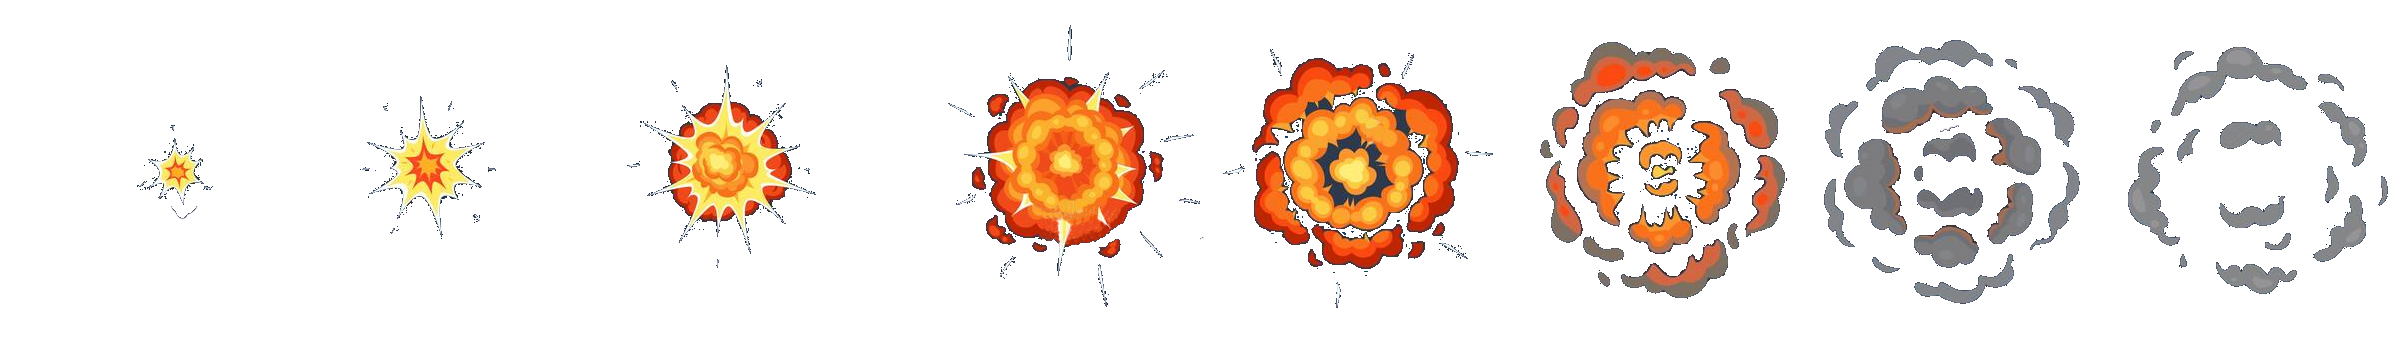
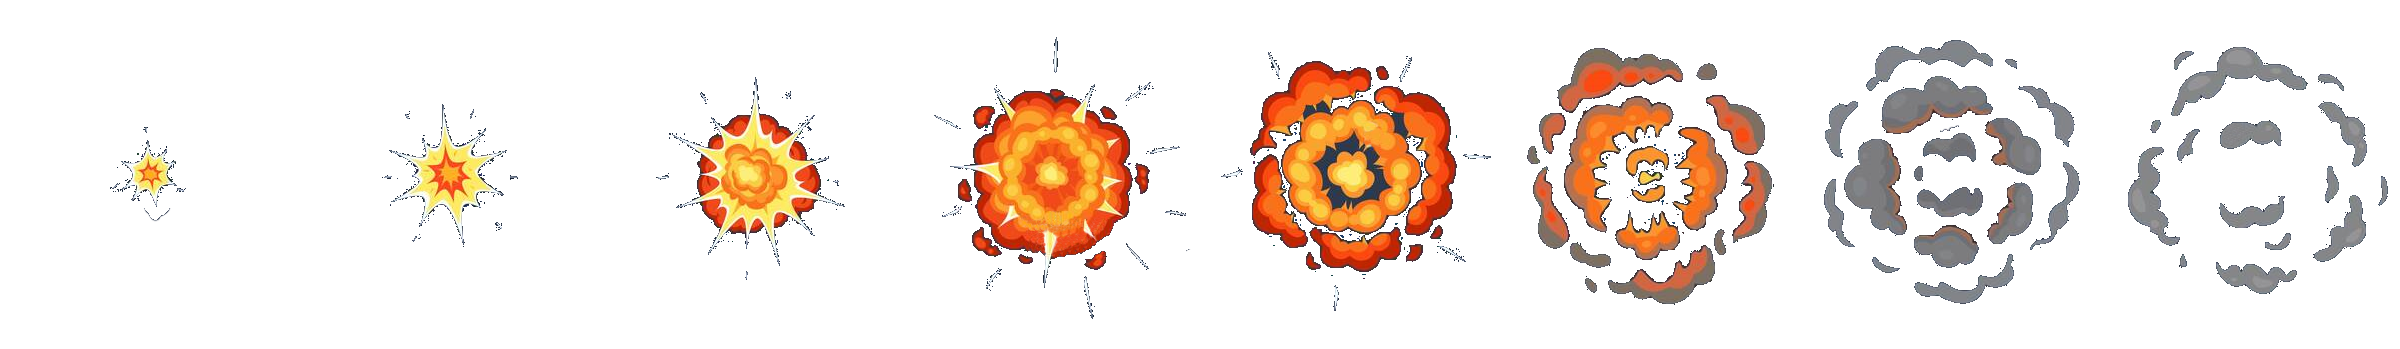
added arrow dx to dynamite explosion + added call onClicked from building to monsters

diff --git a/src/gameApp/buildings/Tower.ts b/src/gameApp/buildings/Tower.ts
@@ -239,11 +239,12 @@ export class Tower extends Building{
 				//попадание в цель
 				if(monsterGoal){ 
 					monsterGoal.health -= this.damage;
+					monsterGoal.onClicked();
 					this._arrows.splice(i, 1);
 					i--;
 
 					if(arrow.isDynamit){
-						this.dynamitExplosion(arrow, monsters);
+						this.dynamitExplosion(arrow.centerX - Math.sign(arrow.dx) * arrow.dx / arrow.dx * 10, arrow.centerY - Math.sign(arrow.dx) * arrow.dy / arrow.dx * 10, monsters);
 					}
 					else if(arrow.isFire){
 						//TODO: add fire to monster
@@ -253,7 +254,7 @@ export class Tower extends Building{
 			else if(endMoving){
 				arrow.isFire = false;
 				if(this.isHasDynamitArrows){
-					this.dynamitExplosion(arrow, monsters);
+					this.dynamitExplosion(arrow.centerX, arrow.centerY, monsters);
 					this._arrows.splice(i, 1);
 					i--;
 				}
@@ -290,25 +291,26 @@ export class Tower extends Building{
 		this._bowmansWaiting--;
 	}
 
-	dynamitExplosion(arrow: Arrow, monsters: Monster[]){
-		AnimationsSystem.add(new AnimatedObject(arrow.centerX - this._dynamitRadius, arrow.centerY - this._dynamitRadius, this._dynamitRadius * 2, this._dynamitRadius * 2, true, 
+	dynamitExplosion(centerX: number, centerY: number, monsters: Monster[]){
+		AnimationsSystem.add(new AnimatedObject(centerX - this._dynamitRadius, centerY - this._dynamitRadius, this._dynamitRadius * 2, this._dynamitRadius * 2, true, 
 			new Animation(8, 500, this._dynamitExplosionImage))); 
 		monsters
 			.forEach(monster => {
-				const distance = Helper.getDistance(monster.centerX, monster.centerY, arrow.centerX, arrow.centerY);
+				const distance = Helper.getDistance(monster.centerX, monster.centerY, centerX, centerY);
 				if(distance <= this._dynamitRadius){
 					monster.health -= this._dynamitDamage;
+					monster.onClicked();
 					Labels.createMonsterDamageLabel(monster.centerX, monster.centerY, '-' + this._dynamitDamage.toFixed(1), 3000);
 				}
 				else if(distance < this._dynamitRadius * 2){
 					const damage = this._dynamitDamage * ((this._dynamitRadius * 2 - distance) / this._dynamitRadius);
-					console.log('damage', damage);
 					monster.health -= damage;
+					monster.onClicked();
 					Labels.createMonsterDamageLabel(monster.centerX, monster.centerY, '-' + damage.toFixed(1), 3000);
 				}
 			})
 		
-		AudioSystem.playRandomV(arrow.dx, [explosionDynamitSound, explosionDynamit2Sound], 0.1, false, 1, true);
+		AudioSystem.playRandomV(centerX, [explosionDynamitSound, explosionDynamit2Sound], 0.1, false, 1, true);
 	}
 
 	draw(drawsDiffMs: number, isGameOver: boolean, isBuildingMode: boolean = false): void{

diff --git a/src/reactApp/pages/Test/TestPage.tsx b/src/reactApp/pages/Test/TestPage.tsx
@@ -493,6 +493,9 @@ class TestPage extends React.Component {
                 App.Store.dispatch(MenuStore.actionCreators.startGame());
                 Game.startNew();
                 Waves.waveCurrent = 1;
+                Waves.all[2] = { //3-я волна
+                    [Bat.name]: new WaveData(75, 90, 0)
+                };
                 Waves.delayEndLeftTimeMs = Waves.delayStartLeftTimeMs = 0;
                 //Waves.isStarted = false;
 
@@ -502,6 +505,7 @@ class TestPage extends React.Component {
                 tower1.bowmans = 1;
                 tower1.radiusAttack = 500;
                 tower1.improveToFireArrows();
+                tower1.improvements.filter(x => x.label == 'Огненные стрелы').forEach(x => x.isImproved = true);
                 Buildings.all.push(tower1);
                 tower1.attack(500 - 400, Draw.canvas.height + 100);
 
@@ -512,6 +516,7 @@ class TestPage extends React.Component {
                 var tower2 = new Tower(1200);
                 tower2.loadedResourcesAfterBuild();
                 tower2.improveToDynamitArrows();
+                tower2.improvements.filter(x => x.label == 'Взрывные стрелы').forEach(x => x.isImproved = true);
                 Buildings.all.push(tower2);
                 tower2.attack(1200 + 400, Draw.canvas.height + 100);
                 
